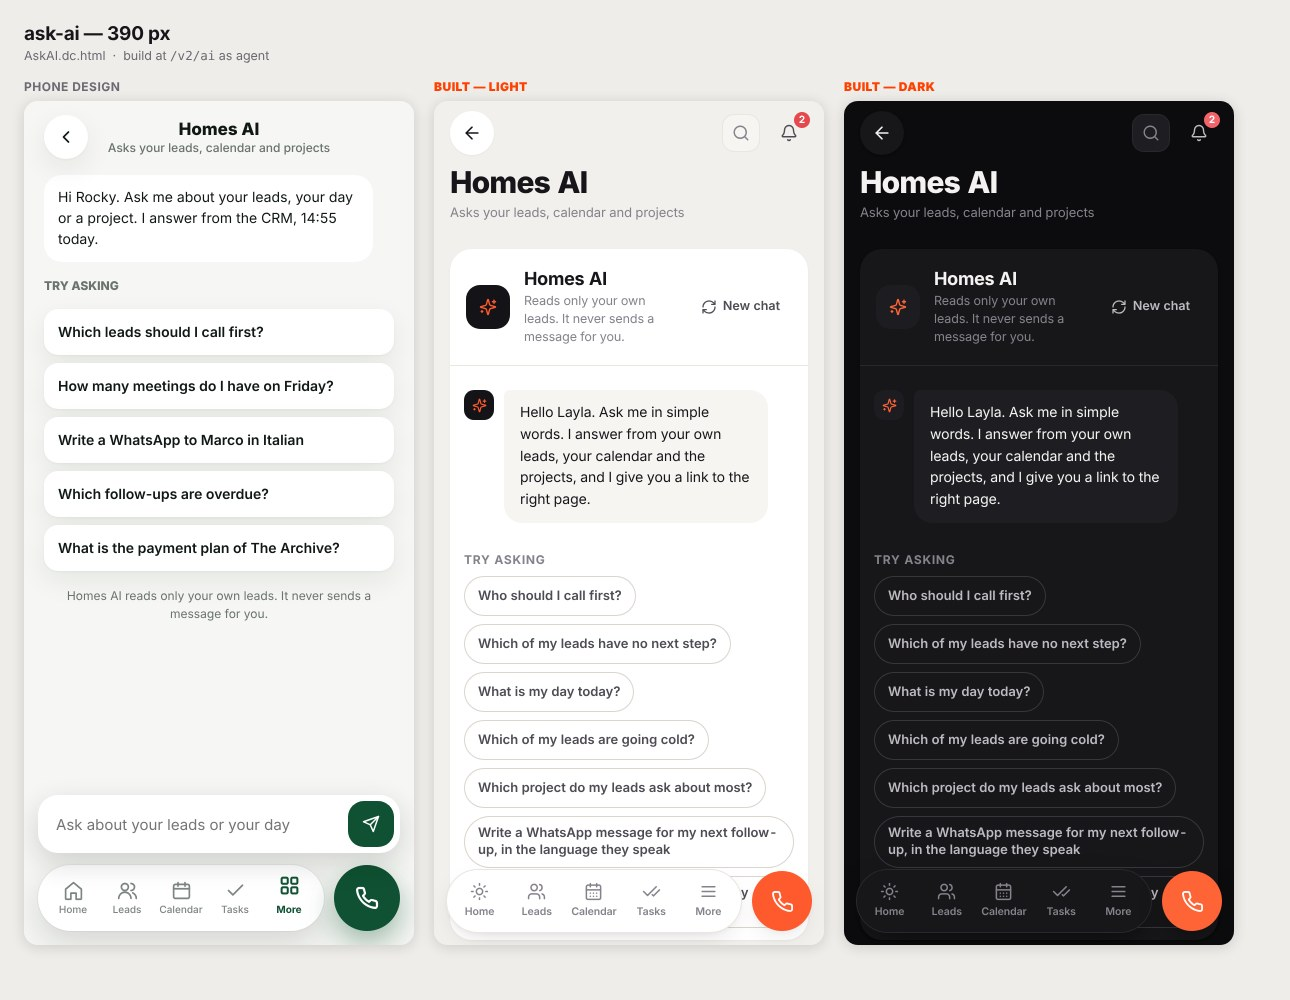
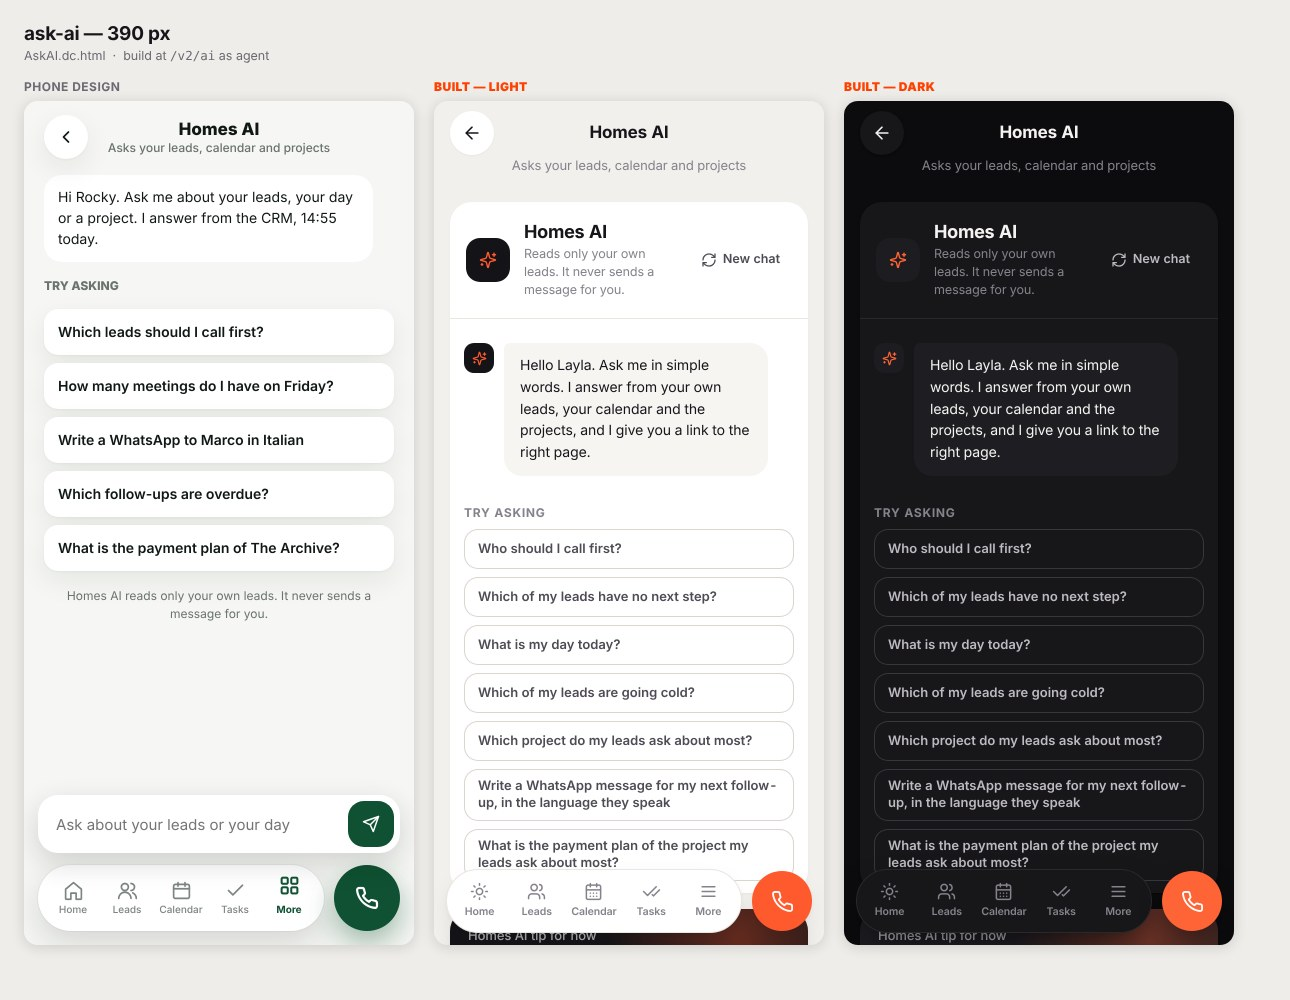
Checkpoint: more of the fix pass, still in progress
Another safe point while the four groups work: typecheck clean, 528 web
tests and the shell's 32 browser checks all pass on this tree. Each group's
work gets its own commit, with its own account of what it found, when it
reports.

Claude-Session: https://claude.ai/code/session_018559QLdur9h2DBrmwHyccZ

diff --git a/web/src/v2/Lead.tsx b/web/src/v2/Lead.tsx
@@ -1,4 +1,4 @@
-import { useState } from 'react';
+import { useRef, useState } from 'react';
 import { Link, useParams } from 'react-router-dom';
 import { api } from '../lib/api.js';
 import { useAsync } from '../lib/hooks.js';
@@ -143,6 +143,8 @@ export function V2Lead() {
    * happened on this very page before — `hook-order.test.ts`.
    */
   const loaded = detail.data?.lead;
+  const tabsAt = useRef<HTMLElement>(null);
+
   usePhoneHead({
     title: loaded?.full_name ?? 'Lead',
     sub: loaded
@@ -331,7 +333,7 @@ export function V2Lead() {
             </button>
           </section>
 
-          <section className="d-card v2-leadpage-tabs">
+          <section className="d-card v2-leadpage-tabs" ref={tabsAt}>
             <div className="d-tabs" role="tablist">
               {(['notes', 'timeline', 'info', 'files'] as const).map((one) => (
                 <button
@@ -340,7 +342,19 @@ export function V2Lead() {
                   role="tab"
                   aria-selected={tab === one}
                   className={tab === one ? 'd-tab d-on' : 'd-tab'}
-                  onClick={() => setTab(one)}
+                  onClick={() => {
+                    setTab(one);
+                    /*
+                     * `Notes.dc.html` is a screen of its own — "Notes & files",
+                     * the lead's name under it — not a tab two screenfuls down
+                     * a page. This build has no route of its own for it, so
+                     * pressing a tab brings it to the top of the phone, which
+                     * is the nearest honest thing to what the design draws.
+                     */
+                    if (window.matchMedia('(max-width:767px)').matches) {
+                      tabsAt.current?.scrollIntoView({ block: 'start', behavior: 'smooth' });
+                    }
+                  }}
                 >
                   {one === 'notes' ? 'Notes' : one === 'timeline' ? 'Timeline' : one === 'info' ? 'Info' : 'Files'}
                   {one === 'timeline' && activities.length > 0 && (

diff --git a/web/src/styles/v2-phone-b.css b/web/src/styles/v2-phone-b.css
@@ -256,6 +256,15 @@
   }
   .v2.v2-phone .v2-b-fu-who span { display: block; font-size: 13px; color: var(--ink-3); }
   .v2.v2-phone .v2-b-fu-who small { display: block; font-size: 11px; color: var(--ink-4); }
+  /* `FollowUps.dc.html` draws the call as a filled round button, because on
+     this screen calling is the whole point. The build's was an outlined
+     square the same weight as everything else in the row. */
+  .v2.v2-phone .v2-b-fu-top > .d-btn.d-icon {
+    width: 44px; height: 44px; min-width: 44px; flex: none;
+    border-radius: 50%; box-shadow: none;
+    background: var(--accent); color: #fff;
+  }
+  .v2.v2-phone .v2-b-fu-top > .d-btn.d-icon .lucide { width: 19px; height: 19px; }
   .v2.v2-phone .v2-b-fu-btns { display: flex; gap: 8px; }
   .v2.v2-phone .v2-b-fu-btns > .d-btn { flex: 1; justify-content: center; }
 
@@ -547,6 +556,15 @@
   .v2.v2-phone .p-inbox .v2-ib-chat {
     height: calc(100dvh - 118px - var(--safe-b, 0px));
     min-height: 420px;
+  }
+  /*
+   * With the thread open the shell draws no header either — that is what
+   * `useFullAttention` now does — so the 118px it was leaving for one was
+   * 84px of nothing under the composer. `v2-has-bar` is the shell's mark
+   * for "ordinary screen"; without it on the inbox, a thread is open.
+   */
+  .v2.v2-phone:not(.v2-has-bar) .p-inbox .v2-ib-chat {
+    height: calc(100dvh - 34px - var(--safe-b, 0px));
   }
   /* The name ran under the 24-hour window chip: `.d-grow` computed 93px for
      a 116px name. The chip goes on its own line under the name. */

diff --git a/docs/v2/phone-questions-d.md b/docs/v2/phone-questions-d.md
@@ -9,6 +9,60 @@ phone layout itself is done; this is what I would not decide on my own.
 
 ---
 
+## 0. The second pass, against your pictures (13 Nov, later)
+
+The 59 phone pictures made it possible to compare properly for the first
+time. What follows is what that comparison changed, and two things in §3
+below that I had written down as impossible and that are not.
+
+**Put right on the phone, from the pictures:**
+
+| Screen | What the picture showed | What I did |
+|---|---|---|
+| Team live | The design opens with the three numbers and the hourly chart; the build opened with "Right now" and buried them a screen and a half down | The clicks card comes first on a phone. Its own heading was being drawn across the numbers, because the computer's 372px row height landed on whichever card was first — that is fixed too |
+| Team live | "+12% vs yesterday" wrapped to two lines in a 99px tile and pushed "Call clicks" below the other two labels | The short form, "+12%", at phone width only. The design has no comparison on those tiles at all |
+| Import | The design names all six steps — Upload · Columns · Check · Give · Confirm · Done. The build showed only the one you were on | Six columns, the name under its circle, the joining lines gone. A wizard that cannot say how far it has to go is not a wizard |
+| Automations | The four times fit one row in the design; the build wrapped them three and one, which reads as though the fourth were different | Four equal columns |
+| Desks | The design's one button is the round `+` in the header; the build had a bar across the page | Moved to the header. The computer keeps its button |
+| Team and roles | **Both** designs have "Invite a person" and the build had no way to add anybody at all | Built — see §3 |
+| Attendance rules | Starts and Ends side by side in the design; one field per screen-width in the build | Side by side. "Late after" takes the second line, because three time fields at 390px is 95px each and the input clips its own AM/PM |
+| Company details | ORN beside TRN, phone beside email; the build had one field a line, eleven screens of mostly white | The pairs are back. The long fields still take the width |
+| System health | The state pill on the right of each row in the design; the build stacked it underneath and doubled the card's height | On the right. A row that is not set up puts its "Set it up" button on a second line, so the name keeps its width |
+| Feedback inbox | The design's chips are New · Planned · Fixed · All; the build had five of its own words. The design puts Plan it · Mark fixed · Reply on each card; the build had one "Answer" that opened a box | The design's four words and order, every chip with its count, and the two quick buttons on the card at phone width. "Answer" is now "Reply", which is what both designs call it |
+| Feedback inbox | The design shows a Bug / Idea chip; the build had only an icon | The word is there |
+| Team activity, Messaging | The computer design gives all three owner reports the Activity · Live · Messaging row. Activity had none and Messaging was missing Live | All three have all three |
+| Phone app | The design prints `crm.homes.me` in step 1; the build said "the same address you use here" and never wrote it down | It prints the address the page is open at, which is by definition the one that works |
+
+**Six changes above 768px**, all because the *computer* design asks for them
+and the build did not have them. Nothing else on a computer moved:
+
+1. Team and roles: an "Invite a person" button beside the heading, and the
+   dialog behind it.
+2. Team activity: the Activity · Live · Messaging row at the top.
+3. Messaging: "Live" added to that row.
+4. Feedback inbox: the four chips renamed and reordered, each with a count.
+5. Feedback inbox: "Answer" renamed "Reply".
+6. Phone app: the address written out.
+
+**Left alone, and why:**
+
+- **Messaging's four numbers** are one row of small tiles in the design and
+  two rows of two in the build. The build's labels are sentences —
+  "Confirmed · the agent answered" — not one word, and four of those across
+  390px is one word a line. Two across.
+- **Import's drop zone.** The phone design says *"Choose an Excel or CSV
+  file · From your phone, computer or Google Drive"*; `design/web/import.html`
+  says *"Drop your Excel or CSV file here · or click to choose a file from
+  this computer"*, which is what the build says. Computer wins, so I left
+  it — but "this computer" is wrong on a phone and I would change both.
+- **Homes AI** and **Home banners** put their cards in a different order on
+  the phone than on the computer. The build follows the computer in both.
+- **Team activity's summary cards** (average time, most active, least
+  active, not seen) are in the computer design and not in the phone one.
+  Kept. So is the underline tab row, which the phone draws as pills.
+
+---
+
 ## 1. Where the two designs disagree, or the design and the build
 
 | # | The case | What I did |
@@ -23,27 +77,43 @@ phone layout itself is done; this is what I would not decide on my own.
 
 ## 2. One real bug I could not fix from a phone stylesheet
 
-**`.d-mini-list` is only defined under `.p-import`.** On **System health**
-("The website form") and on **Team and roles** it therefore styles nothing,
-and the rows render as *"ConnectedYes"*, *"Leads in the last 7 days23"*. That
-is true on a computer as well as on a phone.
-
-A phone stylesheet may only hold rules under `@media (max-width: 767px)`, so I
-have patched it for the phone and **the computer still shows it**. The fix is
-three lines in `v2-shell.css`, which is not a file this group may touch.
+**Fixed by you on 13 Nov, in `v2-shell.css`.** `.d-mini-list` and
+`.d-mini-stats` are now defined for every page rather than only under
+`.p-import`, so System health and Team and roles no longer read
+*"ConnectedYes"*. My own phone copy of those rules is still in
+`v2-phone-d.css` and is now redundant; it is harmless and three lines, and I
+have left it rather than touch a shared file's behaviour on the way past.
 
 ## 3. What the design draws that the server has no field for
 
 Left out rather than guessed, as the brief says. None of these is a phone
 layout problem; each is a piece of work with a server side.
 
-**Team and roles** — the whole **person sheet**: *"Send a password reset
-link"*, *"Sign out of every phone"*, *Deactivate* with *"Tap again: deactivate
-and move leads to Incoming"*, *"See profile and results ›"*, and the refusal
-*"An owner cannot be deactivated here."* Also the **invite sheet** (name,
-email, Agent/Admin, *"the link works for 48 hours"*) and the **two taps to make
-somebody an Owner**. `/api/users/:id` changes a role and nothing else, so the
-build's one role menu is all the server offers.
+**Team and roles** — ~~the invite sheet~~ **I had this wrong and it is now
+built.** I wrote that `/api/users/:id` changes a role and nothing else. The
+server also has `POST /api/users` (name, email, role) and `POST
+/api/users/invite` (several emails at once), both owner/admin only, both
+audited. So the design's `+` and its sheet are real, and both designs ask for
+them, and there is now a sheet with Full name · Work email · Agent/Admin.
+
+**One thing in it does not match the design and cannot.** The design's sheet
+says *"They get an email with a link to set a password"*. `POST /api/users`
+sends nothing: it returns a one-time password, once, for whoever made the
+account to hand over, and the new account must change it at first sign-in. So
+the sheet says that instead, and shows the password with "copy" after it is
+made. **Do you want the invite emailed instead?** The server can
+(`/api/users/invite` with `sendEmail`), but it takes only an email address and
+makes the name up from the part before the @, so the design's "Full name"
+field would go.
+
+Still missing on that screen, and still needing a server side: the **person
+sheet** — *"Send a password reset link"*, *"Sign out of every phone"*,
+*Deactivate* with *"Tap again: deactivate and move leads to Incoming"*, *"See
+profile and results ›"*, the refusal *"An owner cannot be deactivated here"* —
+and the **two taps to make somebody an Owner**. (`POST
+/api/users/:id/reset-password` and the `isActive` flag on `PATCH
+/api/users/:id` both exist, so most of that sheet is a screen's work, not a
+server's. Say the word.)
 
 **Home banners** — the design's banner **is a picture**: upload, "use project
 photo", thumbnails in the list, a live image preview. Also **label chips**
@@ -71,10 +141,15 @@ per-agent presence as *"On a call · 3 min"* / *"Power hour"* / *"Idle 34
 min"*. **"Open TV mode"** exists only in the phone prototype, where it is a
 toast stub; the computer design has no such button, so I left it out.
 
-**Feedback inbox** — **Plan it** and **Mark fixed** on each card, the
-**Bug / Idea** chip, the status words the design uses (New · Planned · Fixed),
-*"Send all open items to the developer (file)"*, and the computer design's
-**+15 points** rule and screenshot / voice-note attachments.
+**Feedback inbox** — ~~Plan it, Mark fixed, the Bug / Idea chip and the
+status words~~ **also wrong, also now built.** The server has had
+`new · planned · fixed · declined` all along (`server/src/v2/feedback.ts`);
+the build only reached them through the reply box. They are on the card now
+and the chips use the designs' own words.
+
+Still missing: *"Send all open items to the developer (file)"* — nothing
+exports these — and the computer design's **+15 points** for sending a report
+and its **screenshot / voice-note** attachments.
 
 **Import** — **"Download the empty template"**, the **"Up to 5,000 rows"**
 limit, the design's **column-mapping bottom sheet** (the build uses a native
@@ -87,9 +162,11 @@ owner cannot see who is on leave before giving them seventy leads), the
 sheet with "Add to Home Screen" picked out, the Chrome ⋮ menu, the home-screen
 grid, both permission dialogs, and the **lock screen**. On a guide whose job
 is "find this button on your phone", the picture *is* the instruction, and
-ours is text. Also the **QR code** the computer design puts at the top, and
-the **`crm.homes.me` address** printed in step 1 — the build says "the same
-address you use here" and never writes it down.
+ours is text. Also the **QR code** the computer design puts at the top.
+
+*The address is printed now.* It is read from the browser
+(`window.location.host`), so on the live site it says `crm.homes.me` and in a
+preview it says the preview's address. Nothing is stored or guessed.
 
 *I did add the design's closing table, **"Tap a notification, it opens…"**,
 because it needs no server and it is the reason to install at all. Every row
@@ -133,3 +210,13 @@ to `usePhoneHead`, and `v2-phone-d.css` hides the panel's own copy under
 header and then drew a second `<h1>` under it, because `titleFor()` only knows
 the first part of an address. **The computer layout is unchanged.** It applies
 to all thirteen settings panels, including the two group C owns.
+
+**Second pass, 13 Nov:** `SettingsTitle` takes one more thing, an optional
+`action`, which it passes to `usePhoneHead` so a panel's one button becomes
+the round `+` in the phone header — which is where `Desks.dc.html` and
+`SettingsTeam.dc.html` both draw it. A panel that passes `action` has its own
+title row hidden on a phone entirely, since the button has moved; a panel that
+passes only `children`, as before, keeps the row with the button in it. Both
+are optional and nothing that does not pass `action` behaves differently, on
+a phone or on a computer. Sign out is still the `<button>` calling
+`signOut()`, untouched.

diff --git a/docs/v2/phone-questions-c.md b/docs/v2/phone-questions-c.md
@@ -146,3 +146,66 @@ library" — are on the screen. The prototype names a lead and a project in them
 ("Write a WhatsApp to Marco in Italian", "What is the payment plan of The
 Archive?") because it is a demo; mine ask the same two questions without
 naming either, so nothing invented reaches the model's prompt.
+
+---
+
+# Second pass · 13 Nov · against the owner's pictures
+
+*The first clean pictures of all 59 phone designs arrived
+(`design/phone-shots/`), and with them `docs/v2/phone-proof/<key>.jpg` —
+design, build and build-in-dark side by side. Everything below came out of
+reading those fifteen pictures. The first half of this file still stands;
+this is what the comparison added.*
+
+## 4. What I changed
+
+| Screen | What the picture showed | What I did |
+|---|---|---|
+| **All fifteen** | Every one of my designs draws the §1.4 **pattern A** header — a 17px title centred between the back button and one round action. The build drew the 30px title on its own line, with the search and the bell beside it | `usePhoneHead({ compact: true })` on all fifteen. The search and the bell are gone from these fifteen screens, as the design has them: they are still on My Leads, the pipeline and the rest, and in More |
+| **Meet the team** | The design is five people on a screen: avatar, **name and attendance pill on one line**, desk and languages under it, chevron. The build stacked name, role, pill and languages on four lines of their own — 245px a card, two and a half people on a phone | One row per person, name and pill on the first line, the role and languages under, and the design's chevron on the right |
+| **Meet the team** | The design marks nobody's row as their own | The **"You"** badge is hidden at phone width. Pinned to the corner it sat on top of the attendance pill, and there is no room on the line for both. Your own row still carries your own photo. **If you want the badge back, say so and the pill moves to the second line instead** |
+| **A colleague** | The design draws **Phone and WhatsApp side by side**. The build had WhatsApp alone | The Phone button was conditional on a *public* number, which most people never set. It now falls back to the sign-in number, which `loadProfile` already sends and the business card already prefers in the same order. This also puts the button back on the computer |
+| **One project** | The design orders it hero → pitch → **Send to a client** → the leads. The build had the send card last, under fifty-five leads | Ordered on the phone. On a computer the send card is the right-hand column and the question does not arise |
+| **My digital card** | The design opens with the public link — switch, address, Copy link — and only then the printed card. The build had it at the foot of the page, under the whole three-step builder | Ordered to the top on the phone. Unchanged on a computer, where the design puts it in the right-hand column |
+| **Best of Homes** | "You are in first place. Keep it." was **cut in half** by the bottom edge of the podium card | The card keeps 14px under the podium on a phone. The same clipping is there at computer width, in the generated `v2-home.css`, which is not mine to edit — **worth a look on the computer** |
+| **Personal information** | The completeness bar carries its own grey panel, and inside a white card that reads as a box in a box with 20px of nothing round it | Flattened on the phone: one card, the title, the bar, what is missing |
+| **My notifications** | On the one row that carries an "always on" chip, the switch — the only control on the row — dropped to a line of its own under the text | The chip gives way instead, so every switch is on the right where the design has it. Scoped to this screen only, so no other settings panel moves |
+| **My notifications** | The top card squeezed "Notifications are on" into two words beside the test button | The button takes its own full-width line under the heading |
+| **Homes AI** | The design draws the suggestions as full-width rows, one question each. The build had pills that wrapped where they liked | Full-width rows |
+| **The team wall** | "Post to the team" is the width of the box above it in the design | Full width |
+
+## 5. What I did not change, and why
+
+- **"Edit" and "View" on Manage live projects.** The phone design says *Edit
+  details* and *See as an agent*. The computer design has no row buttons at
+  all, so there is nothing to lose a disagreement to — but the labels are
+  shared markup and longer words would re-flow that column on the computer,
+  which I was told not to touch. **Say the word and I will rename them.**
+- **"Public card link" on the business card.** The phone design says *Share my
+  card publicly* and puts a WhatsApp button beside Copy link.
+  `design/web/digital-card.html` says *Public card link · Anyone with the link
+  sees your card · Copy link*, which is what is built. The computer design is
+  the newer one, so it wins, and there is no WhatsApp share button.
+- **"Recommended" on the Signature card design.** Only the phone prototype has
+  that pill; the computer design does not.
+- **Security's order.** The phone design is password → two-step → devices. The
+  build is password → devices → two-step, because our two-step block is a
+  sentence saying there is no second factor, and a sentence does not belong
+  above the list of devices somebody came to read.
+- **Settings' order inside YOU.** The phone design has four rows (profile,
+  language, appearance, notifications); the build has seven, because Security,
+  the phone app and the glass setting are real screens now. Same rows, more of
+  them.
+- **The attendance pill on a colleague's page.** The design shows "In office"
+  under the name. `/api/profiles/:id` does not carry where somebody is today —
+  `/api/v2/team` does, and the page does not read it. A second request for one
+  pill, so I left it. Small server or screen job if you want it.
+- **Feedback's order** is the computer design's exactly (what · where · what
+  happened · how urgent · send). The phone design puts a short title second,
+  and there is no field for one.
+
+## 6. Not mine, and still true
+
+- `web/src/v2/settings/Team.tsx` uses `.d-gap-12`, which is in no stylesheet,
+  so `design-classes.test.ts` fails on it. It was `Calling.tsx` last time;
+  same class, different screen. Not my file either time.
